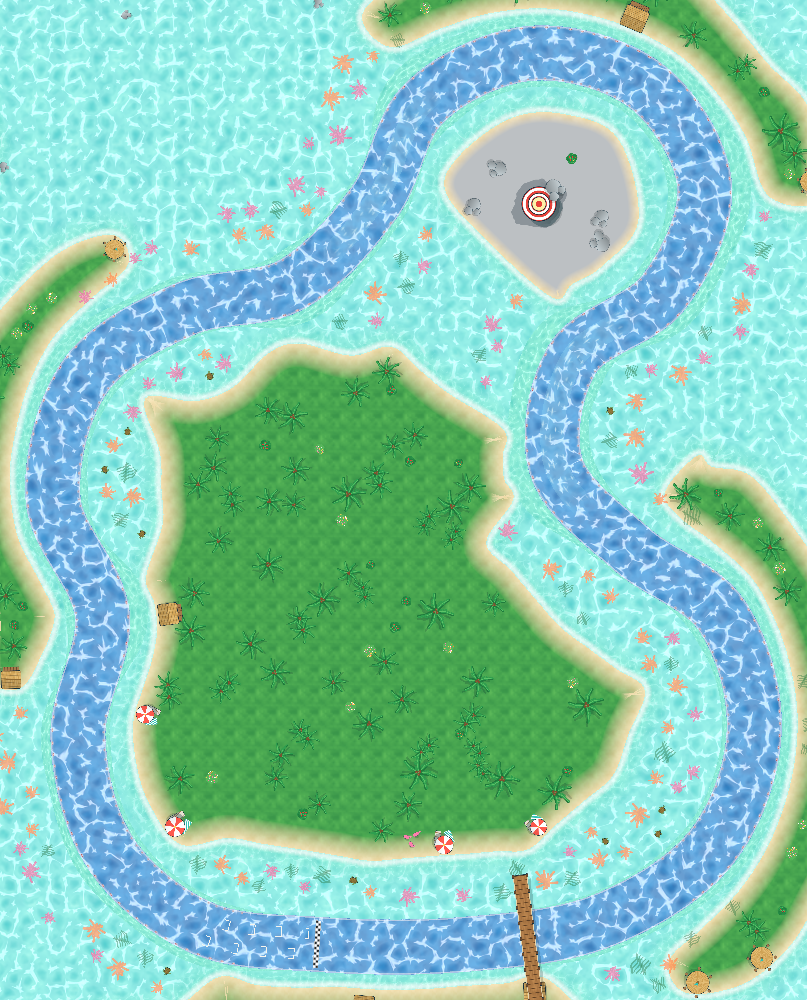
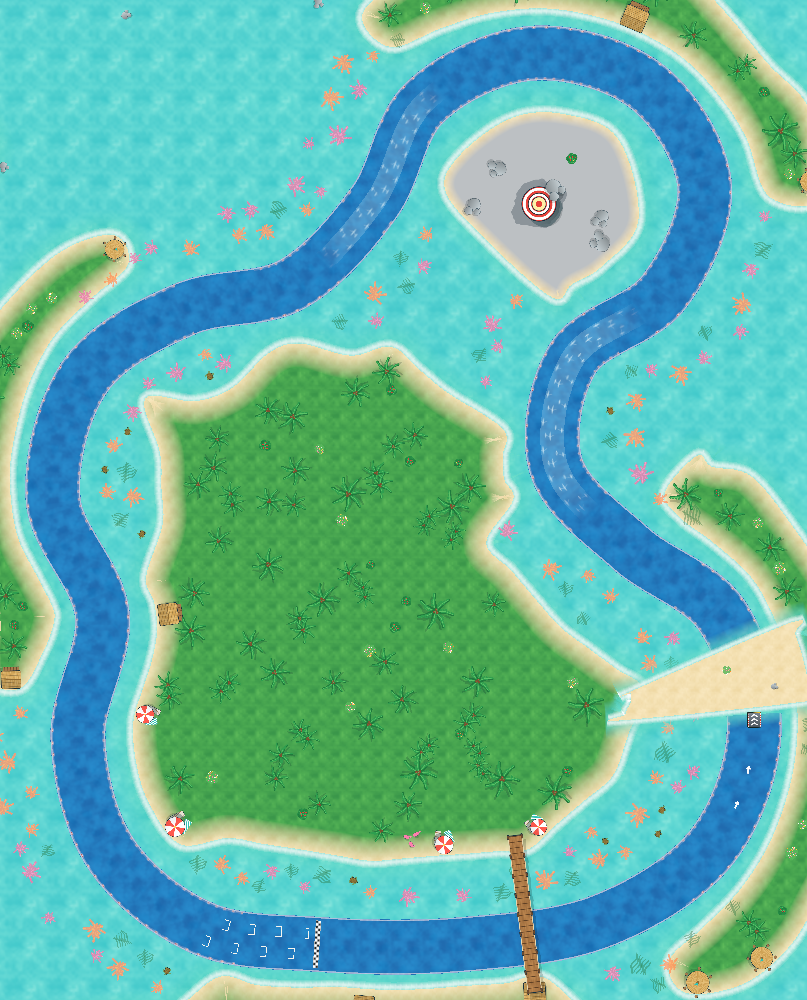
Lagoon water: the glints fainter still; the track's picture (race card, loading screen) taken with calm water, without the light play

diff --git a/Assets/Scripts/Editor/WaterArt.Lagoon.cs b/Assets/Scripts/Editor/WaterArt.Lagoon.cs
@@ -24,8 +24,8 @@ namespace SomeGame.EditorTools
             Write(f, "LagoonJungle", 128, 128, JunglePixel, 32, true);
             Write(f, "LagoonFoam", 32, 128, FoamPixel, 32, true);
             Write(f, "LagoonBuoys", 64, 128, BuoyPixel, 32, true);
-            Water("LagoonSea", "LagoonShallows", Color.white, new Color(1f, 1f, 0.92f, 0.1f), 0.4f, 0.06f);
-            Water("LagoonChannel", "LagoonDeep", Color.white, new Color(0.8f, 0.97f, 1f, 0.12f), 0.28f, 0.1f);
+            Water("LagoonSea", "LagoonShallows", Color.white, new Color(1f, 1f, 0.92f, 0.08f), 0.4f, 0.035f);
+            Water("LagoonChannel", "LagoonDeep", Color.white, new Color(0.8f, 0.97f, 1f, 0.1f), 0.28f, 0.06f);
             Water("LagoonRunoff", "LagoonShallows", new Color(1f, 1f, 0.94f), new Color(1f, 1f, 0.9f, 0.16f), 0.45f, 0.2f);
             // The boats' foam (wakes and spray): a soft white puff, as a particle material.
             Write(f, "FoamPuff", 64, 64, (x, y) =>

diff --git a/Assets/Scripts/Editor/PreviewGenerator.cs b/Assets/Scripts/Editor/PreviewGenerator.cs
@@ -41,6 +41,7 @@ namespace SomeGame.EditorTools
             foreach (var guid in AssetDatabase.FindAssets("t:LevelCatalog"))
                 foreach (var l in AssetDatabase.LoadAssetAtPath<LevelCatalog>(AssetDatabase.GUIDToAssetPath(guid)).levels)
                     if (l != null && !levels.Contains(l)) levels.Add(l);
+            Shader.SetGlobalFloat("_LagoonCalm", 1f); // calm lagoon water in the pictures
             var log = new System.Text.StringBuilder();
             foreach (var level in levels)
             {
@@ -111,6 +112,7 @@ namespace SomeGame.EditorTools
             AssetDatabase.SaveAssets();
             // Reopen the scene without saving the temporary changes.
             EditorSceneManager.OpenScene(UIBuilder.RaceScenePath);
+            Shader.SetGlobalFloat("_LagoonCalm", 0f);
             return "previews: " + log;
         }
     }
